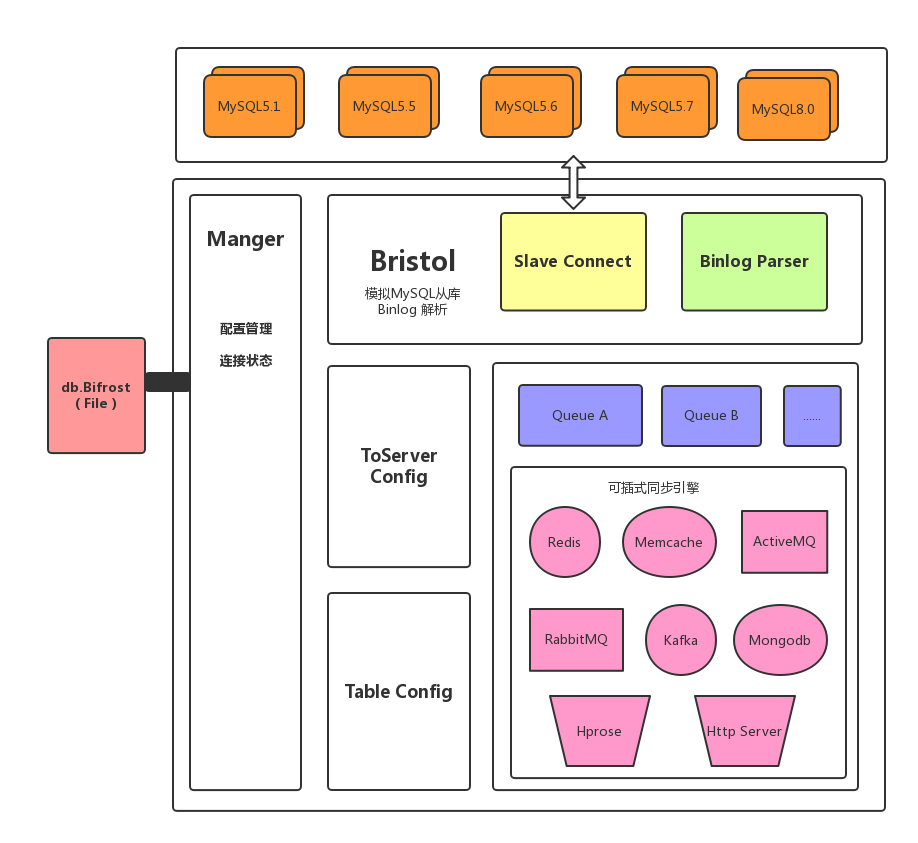
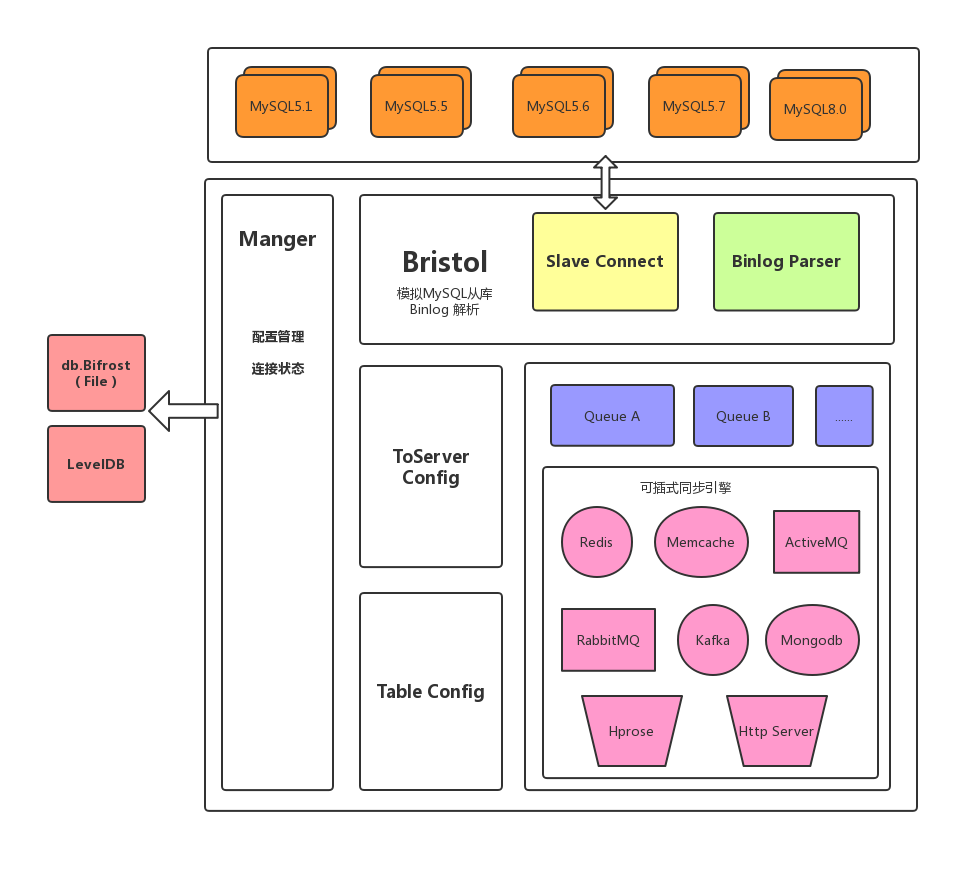
README.MD

Changed region(s): [[0.0305, 0.0308, 0.976, 0.9561]]

diff --git a/README.MD b/README.MD
@@ -1,6 +1,6 @@
 # Bifrost ---- MySQL到其他服务的高性能异构中间件
 
-[![Build Status](https://travis-ci.org/jc3wish/Bifrost.svg?branch=v1.1.0)](https://travis-ci.org/jc3wish/Bifrost)
+[![Build Status](https://travis-ci.org/jc3wish/Bifrost.svg?branch=v1.1.x)](https://travis-ci.org/jc3wish/Bifrost)
 [![Join the chat at https://gitter.im/jc3wish-Bifrost/Lobby](https://img.shields.io/badge/GITTER-join%20chat-green.svg)](https://gitter.im/jc3wish-Bifrost/Lobby?utm_source=share-link&utm_medium=link&utm_campaign=share-link)
 [![License](https://img.shields.io/github/license/jc3wish/Bifrost.svg)](https://opensource.org/licenses/apache2.0)
 
@@ -18,8 +18,8 @@
 * ActiveMQ
 * Kafka
 * Mongodb
-* Http 自定义服务
-* [Hprose RPC 自定义服务](https://github.com/jc3wish/Bifrost/blob/master/hprose_server/tcp_server.go)
+* [Http 自定义服务](https://github.com/jc3wish/Bifrost/blob/v1.1.x/plugin/http/example/http_server/http_server.go)
+* [Hprose RPC 自定义服务](https://github.com/jc3wish/Bifrost/blob/v1.1.x/hprose_server/tcp_server.go)
 
 ![image](https://github.com/jc3wish/Bifrost/blob/master/bifrost1.jpg)
 
@@ -38,7 +38,7 @@
 
 * kill,服务宕机等重启自动恢复配置
 
-* 每条数据同步完保存位点,数据位点安全,确保不会出现数据重复同步
+* 支持自定义插件开发，动态加载
 
 
 ### MySQL 版本（经过测试）
@@ -80,7 +80,7 @@ go get github.com/jc3wish/Bifrost
 ##### 二进制文件下载
 `````sh
 
-wget https://github.com/jc3wish/Bifrost/releases/download/v1.0.4-release/linux.zip
+wget https://github.com/jc3wish/Bifrost/releases/download/v1.1.x-release/linux.zip
 
 unzip linux.zip
 
@@ -107,6 +107,16 @@ listen=0.0.0.0:21036
 #通过界面配置的信息保存文件夹,默认为启动文件所在文件夹下的data目录
 data_dir=./
 
+#设置同步给第三方服务的队列大小，默认10000
+toserver_queue_size=10000
+
+#通道队列的大小，默认1000
+channel_queue_size=1000
+
+#是否支持动态加plugin so 插件，默认为false
+#这个参数只在 linux 下有效，其他平台全部为false
+dynamic_plugin=false
+
 `````
 
 ##### 启动
@@ -128,7 +138,7 @@ data_dir=./
  FROM centos:centos6.8
  MAINTAINER jc3wish "jc3wish@126.com"
  RUN yum install -y wget unzip
- RUN wget https://github.com/jc3wish/Bifrost/releases/download/v1.0.4-release/linux.zip
+ RUN wget https://github.com/jc3wish/Bifrost/releases/download/v1.1.x-release/linux.zip
  RUN unzip linux && cd linux && chmod a+x ./Bifrost-server
  ENTRYPOINT ["linux/Bifrost-server","start"]
  EXPOSE 21036
@@ -136,14 +146,14 @@ data_dir=./
 `````
 
 `````shell
- docker build -t bifrost:1.0.4 .
+ docker build -t bifrost:1.1.x .
 `````
 
 ##### Docker启动
 `````shell
-docker pull jc3wish/bifrost:1.0.4
+docker pull jc3wish/bifrost:1.1.x
 
-docker run -d -p21036:21036 jc3wish/bifrost:1.0.4
+docker run -d -p21036:21036 jc3wish/bifrost:1.1.x
 `````
 
 ##### 管理
@@ -153,6 +163,16 @@ http://127.0.0.1:21036
 ### 界面操作文档
 [Bifrost官网](http://www.xbifrost.com/)
 
-### QQ群号： 70331601
-![image](https://github.com/jc3wish/Bifrost/blob/master/qq.jpg)
+### 感谢相关依懒包提供者
 
+- github.com/gmallard/stompngo
+- github.com/hprose/hprose-golang
+- github.com/Shopify/sarama
+- github.com/bradfitz/gomemcache/memcache
+- gopkg.in/mgo.v2
+- github.com/streadway/amqp
+- github.com/garyburd/redigo/redis
+- github.com/syndtr/goleveldb/leveldb
+
+### QQ群号： 70331601
+<img src="https://github.com/jc3wish/Bifrost/blob/master/qq.jpg" width="250" alt="qq群"/>
